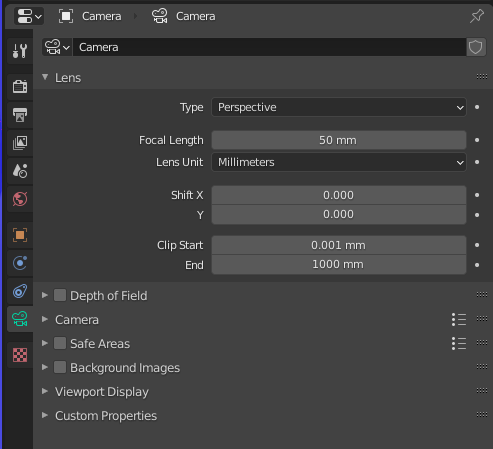
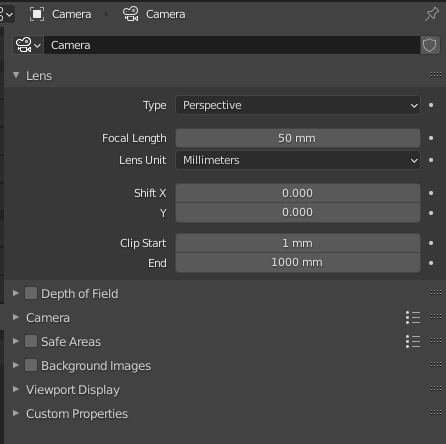
Typo fix in faq

diff --git a/_posts/2020-10-31-wk10-tutorial.md b/_posts/2020-10-31-wk10-tutorial.md
@@ -75,7 +75,7 @@ Yes.
   <summary style="color: #E64626;">Help! My camera view / final render looks like its clipping. </summary>
 
 If your render has some funny faces or the pokeball is not completely shown.
-Select your **Camera** and go into the **Object Data Properties**, changing the **clip start** to **0.001mm** and the **clip end** to **1000mm**.
+Select your **Camera** and go into the **Object Data Properties**, changing the **clip start** to **1mm** and the **clip end** to **1000mm**.
 
 ![Step 2 - Image 1]({{site.baseurl}}/assets/images/wk10-tutorial/clipping.png)
 
